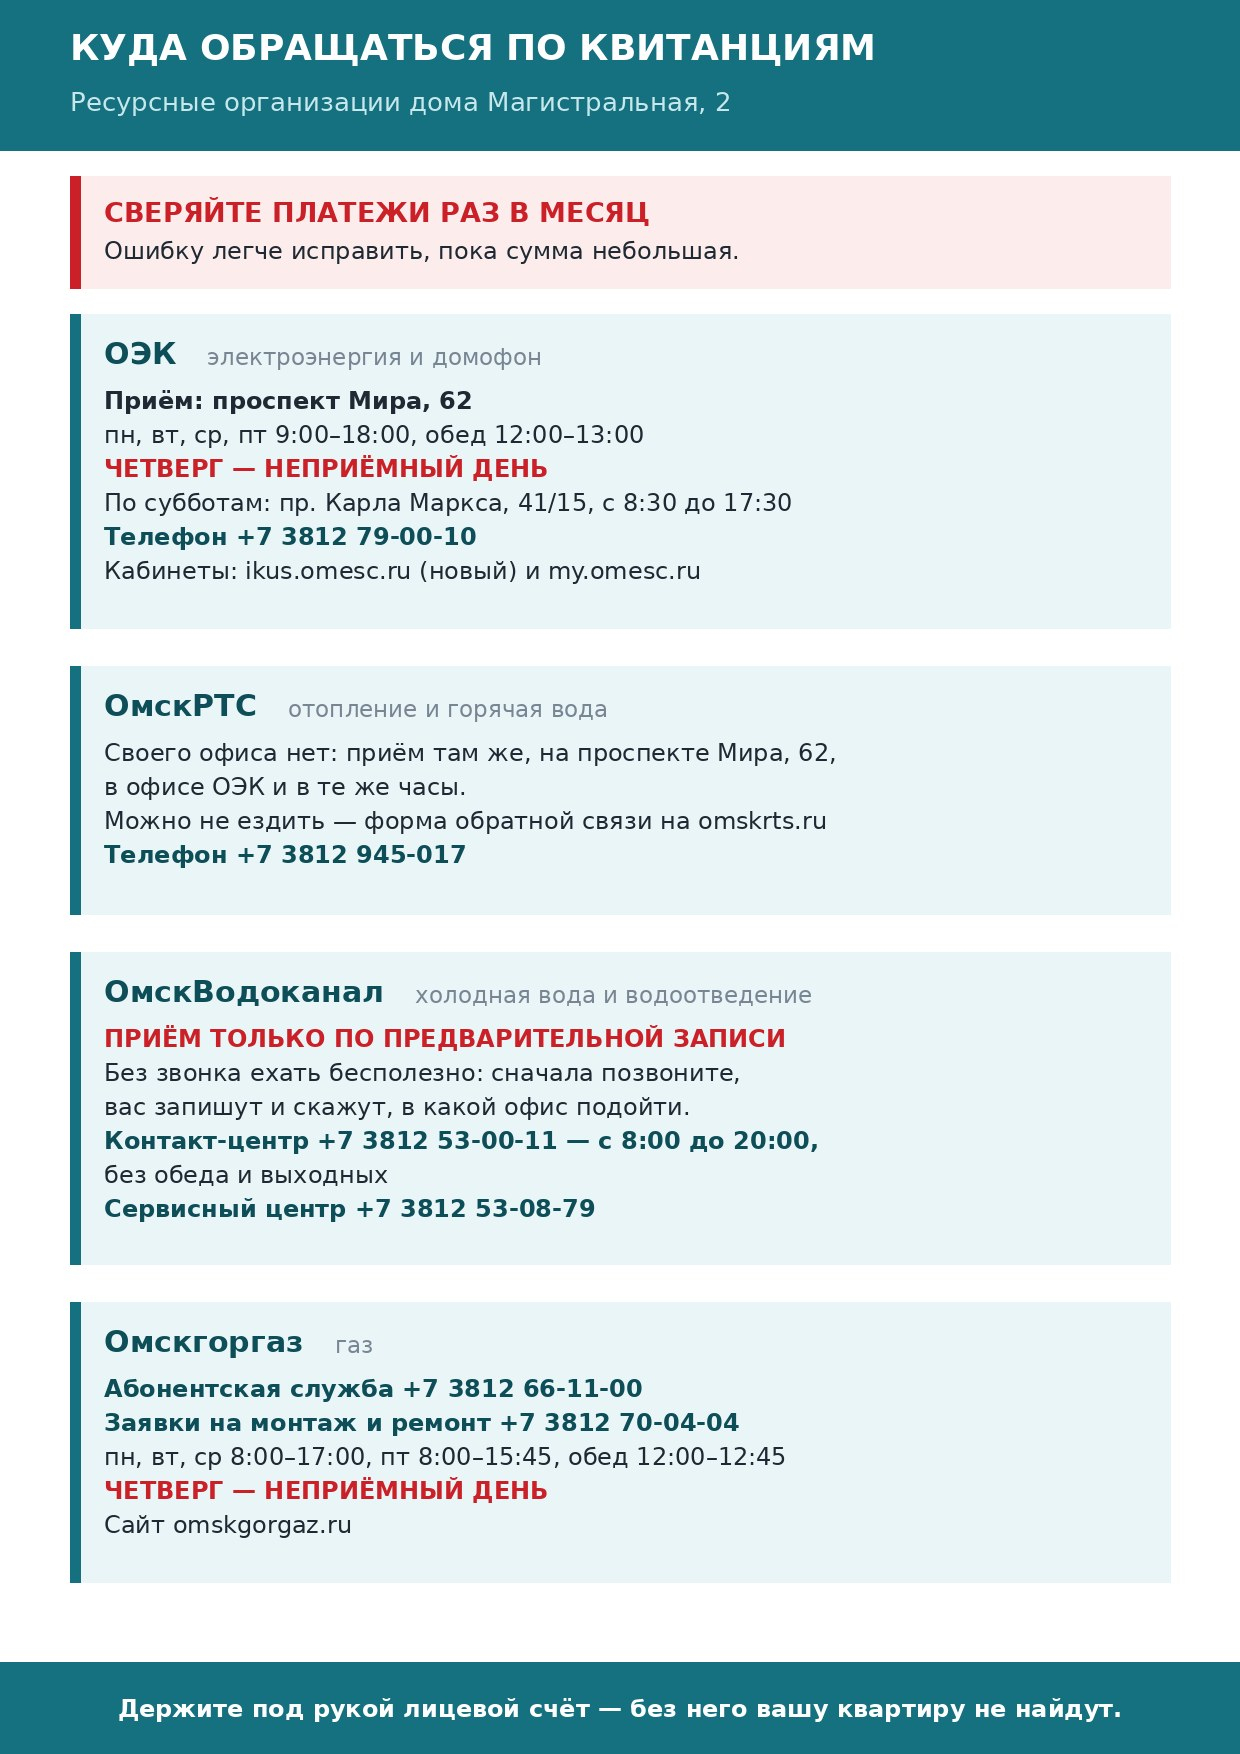
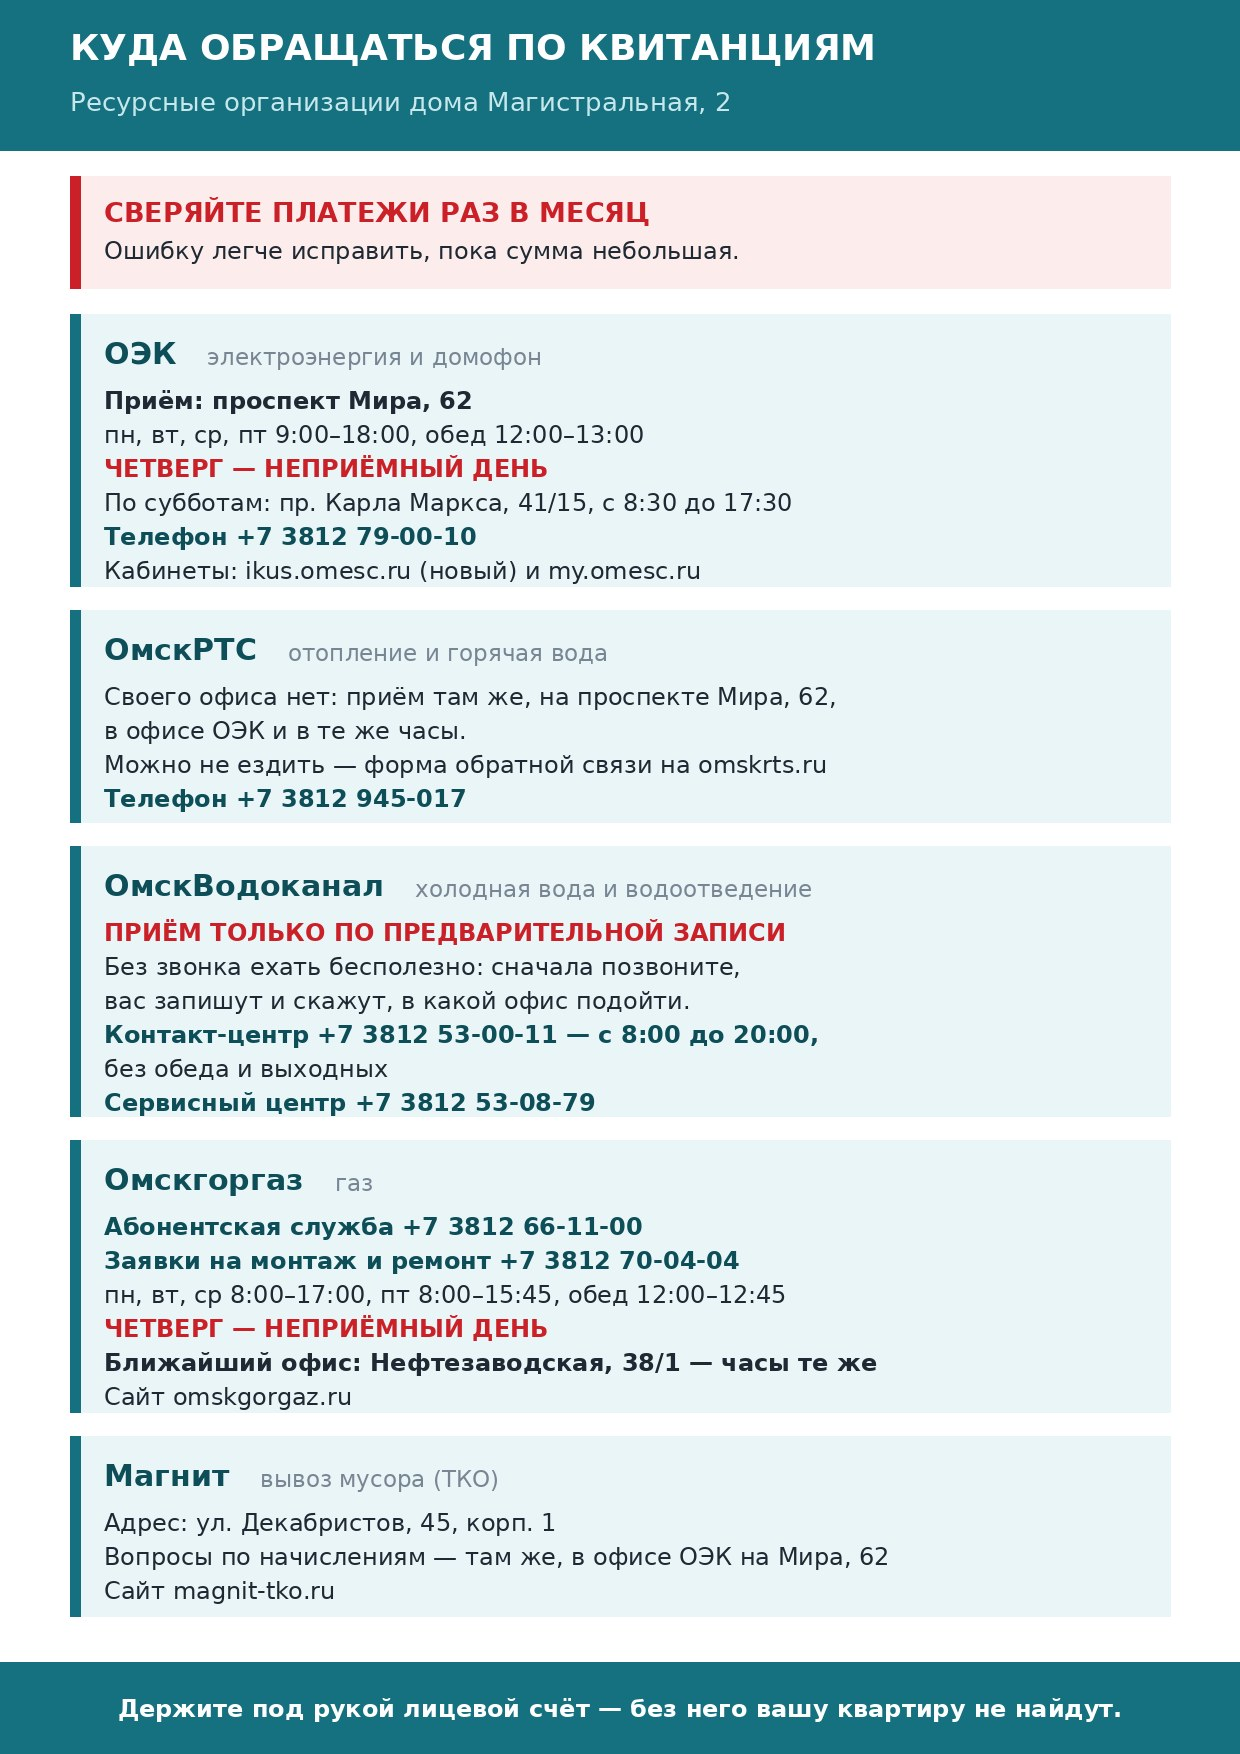
Памятки: Магнит, филиал Горгаза и офис Модуса
В памятку по ресурсникам добавлен пятый поставщик — ООО «Магнит», вывоз
мусора: адрес с квитанции, вопросы по начислениям там же, в офисе ОЭК на
Мира, 62. Без него заголовок памятки обещал все организации дома, а одной
не хватало.

У Омскгоргаза вписан ближайший офис, Нефтезаводская, 38/1: председатель
подтвердила, что часы приёма во всех филиалах одинаковые.

В памятку про ключи добавлен офис Модуса — улица Пушкина, 103, часы и
почта. Сведения из квитанции ОЭК, где Модус указан среди исполнителей;
на плакате в подъезде их нет, там только телефон.

Поиск дотянут: «офис модуса адрес» уходил к памятке по УК, у которой есть
слова «офис» и «адрес», а у памятки про ключи их не было. Проверено на
шестнадцати формулировках, соседние памятки на месте.

Claude-Session: https://claude.ai/code/session_01SicRex17FsgKWUCP5fdcWj

Changed region(s): [[0.0306, 0.3387, 0.7048, 0.9236], [0.4903, 0.862, 0.5823, 0.8928], [0.6129, 0.862, 0.6742, 0.8928]]

diff --git a/tests/test_faq.py b/tests/test_faq.py
@@ -226,6 +226,9 @@ def test_app_question_goes_to_the_right_memo(house, question, code):
     ("омскгоргаз часы работы", "resursniki"),
     ("часы приёма оэк", "resursniki"),
     ("как записаться в водоканал", "resursniki"),
+    ("магнит тко", "resursniki"),
+    ("куда звонить по вывозу мусора", "resursniki"),
+    ("офис модуса адрес", "klyuchi"),
     # широкие слова в памятке по ресурсникам не должны забирать чужое
     ("телефон управляющей компании", "uk-evrocentr"),
     ("застряли в лифте", "uk-evrocentr"),

diff --git a/content/faq/klyuchi.md b/content/faq/klyuchi.md
@@ -1,7 +1,7 @@
 ---
 title: Как заказать ключи и брелоки
 category: access
-keywords: ключ, ключи, ключей, брелок, брелоки, брелка, заказать, купить, дополнительный, ещё один, потерял, потеряла, сломался, размагнитился, модус, модусомск, приложение, домофон, стоимость, цена, лицевой счёт
+keywords: ключ, ключи, ключей, брелок, брелоки, брелка, заказать, купить, дополнительный, ещё один, потерял, потеряла, сломался, размагнитился, модус, модусомск, приложение, домофон, стоимость, цена, лицевой счёт, офис, адрес, пушкина, часы, почта, email
 image: kalitka-klyuchi.jpg
 order: 20
 ---
@@ -11,6 +11,11 @@ order: 20
 • позвонить диспетчеру: +7 3812 37-23-23
 • через сайт https://modus-omsk.ru/
 • через приложение «МодусОмск» (ИП Дятлова С.В.)
+
+<b>Офис Модуса</b>
+Если удобнее приехать самим: г. Омск, ул. Пушкина, 103.
+Часы работы: пн–пт с 9:00 до 19:00, сб с 10:00 до 15:00.
+Почта: help@modus-omsk.ru
 
 <b>Оплата</b>
 • Ключи оплачиваются заранее, до заявки.

diff --git a/content/faq/resursniki.md b/content/faq/resursniki.md
@@ -38,7 +38,13 @@ order: 20
 Абонентская служба: +7 3812 66-11-00
 Заявки на монтажные и ремонтные работы: +7 3812 70-04-04
 Часы работы: пн, вт, ср с 8:00 до 17:00, пт с 8:00 до 15:45, обед с 12:00 до 12:45. <b>Четверг — неприёмный день.</b>
+Ближайший офис: <b>Нефтезаводская, 38/1</b>. Часы приёма во всех филиалах одинаковые.
 Сайт: <a href="https://www.omskgorgaz.ru/">omskgorgaz.ru</a>
+
+<b>🗑 Магнит — вывоз мусора (ТКО)</b>
+Адрес: ул. Декабристов, 45, корп. 1
+Вопросы по начислениям — там же, на проспекте Мира, 62, в офисе ОЭК.
+Сайт: <a href="https://www.magnit-tko.ru/">magnit-tko.ru</a>
 
 <b>Что держать под рукой</b>
 Лицевой счёт из квитанции. Без него ни в кабинет не войти, ни в офисе вашу квартиру не найти. У каждой организации он свой — выпишите все на один листок и держите рядом с квитанциями.

diff --git a/content/faq/README.md b/content/faq/README.md
@@ -63,6 +63,10 @@ order: 10
 Появится ИТП с насосом — памятку надо переписать, иначе бот будет
 объяснять жителям несуществующее ограничение.
 
+Адрес и часы офиса Модуса в `klyuchi` — тоже из квитанции ОЭК, где
+Модус указан среди исполнителей услуг. На плакате про калитку и ключи их
+нет: там напечатан только телефон.
+
 Текст `resursniki` собран по квитанциям, которые прислала председатель:
 адреса, часы приёма, неприёмные дни и телефоны взяты оттуда, а не из
 справочников в интернете. Сайты ресурсников из рабочего окружения
